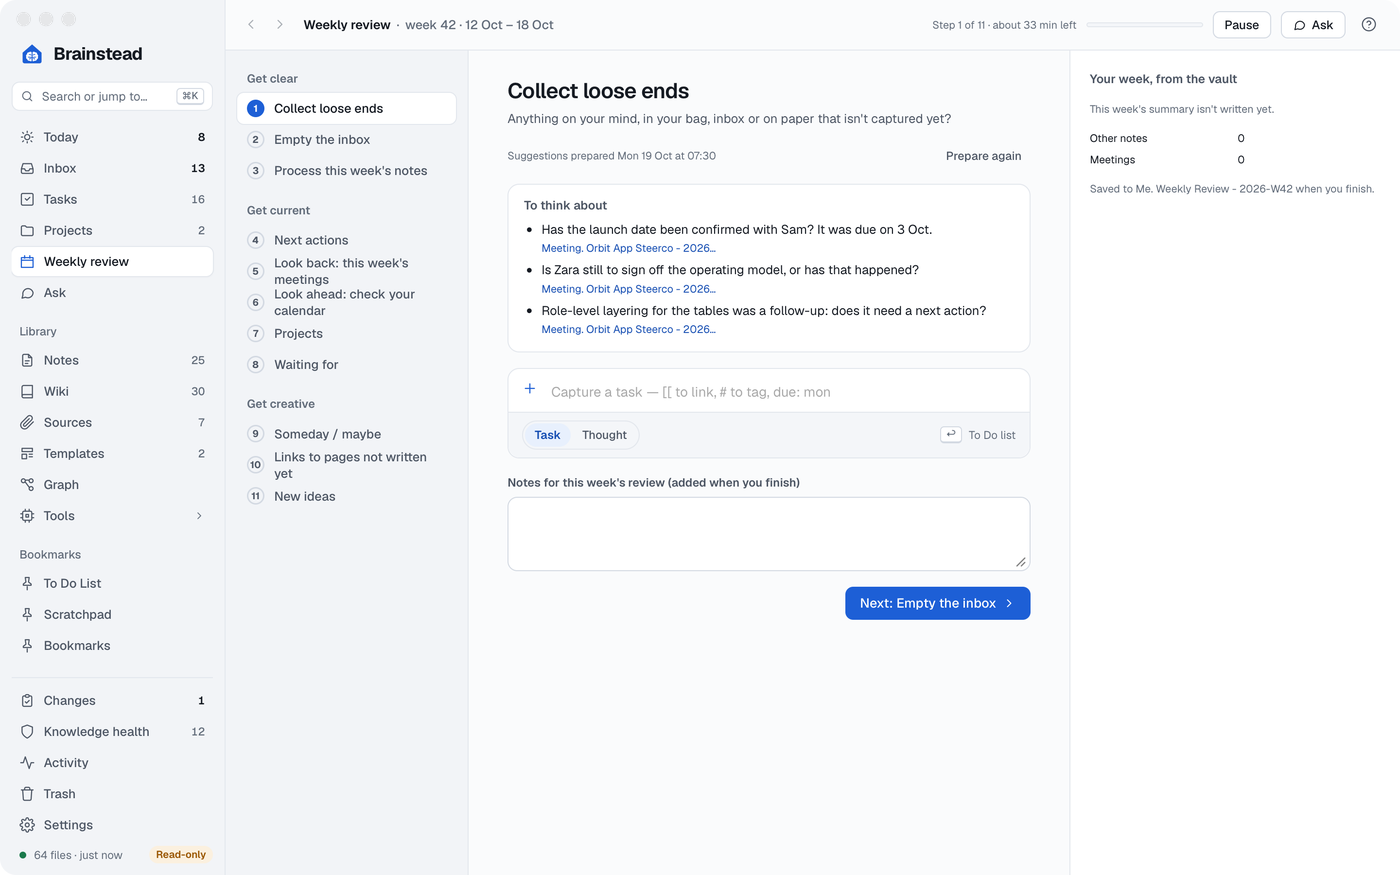
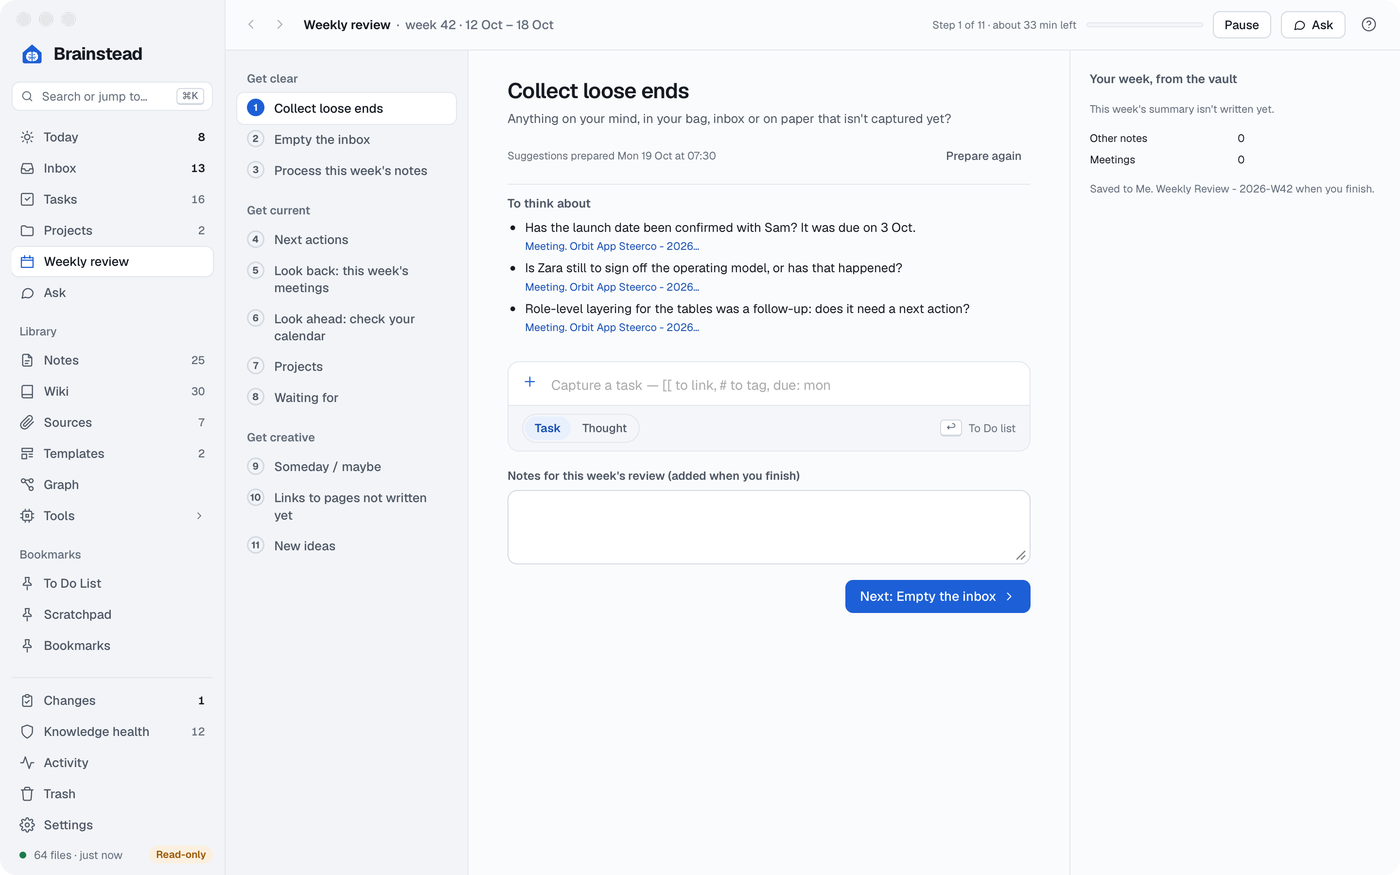
Weekly review in the new look: a long step name wraps under itself instead of over the next step, the step's suggestions are a heading and list with no box, the side pane sits on the page's ground, and the start page lists the eleven steps by phase (done ones struck through)

diff --git a/src/styles.css b/src/styles.css
@@ -6738,22 +6738,25 @@ select.sel {
   color: var(--ink3);
   padding: 16px 10px 6px;
 }
+
+/* A step: its number and name, the name wrapping under itself when it's long. */
 .wst {
   display: flex;
-  align-items: center;
+  align-items: flex-start;
   gap: 10px;
   width: 100%;
-  height: 32px;
-  padding: 0 10px;
+  min-height: 32px;
+  padding: 7px 10px;
   border: 0;
   border-radius: 7px;
   background: none;
-  font: 500 13px var(--sans);
+  font: 500 13px/1.35 var(--sans);
   color: var(--ink2);
   cursor: pointer;
   text-align: left;
 }
 .wst .sd {
+  margin-top: -1px;
   width: 18px;
   height: 18px;
   border-radius: 50%;
@@ -6791,7 +6794,7 @@ select.sel {
 
 /* The weekly review's start page, before step 1. */
 .wstart {
-  max-width: 640px;
+  max-width: 760px;
   padding: 40px 40px 28px;
   display: flex;
   flex-direction: column;
@@ -6805,6 +6808,26 @@ select.sel {
 }
 .wstart .row {
   gap: 8px;
+}
+.wphases {
+  display: grid;
+  grid-template-columns: repeat(3, minmax(0, 1fr));
+  gap: 20px;
+  padding: 14px 0 4px;
+  border-top: 1px solid var(--line);
+}
+.wphases ol {
+  margin: 6px 0 0;
+  padding-left: 20px;
+  display: flex;
+  flex-direction: column;
+  gap: 4px;
+  font-size: 13px;
+  color: var(--ink2);
+}
+.wphases li.done {
+  color: var(--ink3);
+  text-decoration: line-through;
 }
 .wmain .muted {
   margin: 6px 0 0;
@@ -6820,7 +6843,6 @@ select.sel {
 }
 .wside {
   border-left: 1px solid var(--line);
-  background: var(--surface);
   padding: 20px;
   overflow-y: auto;
   display: flex;
@@ -6867,18 +6889,21 @@ select.sel {
 .wprephead.jprog .bar {
   max-width: 200px;
 }
+
+/* The step's suggestions: a heading and its list, no box. */
 .wprep {
-  padding: 4px 0;
+  padding: 0;
+  border-top: 1px solid var(--line);
 }
 .wprep > .eyebrow {
   display: block;
-  padding: 8px 16px 2px;
+  padding: 10px 0 2px;
 }
 .wsugg {
   display: flex;
   align-items: center;
   gap: 8px;
-  padding: 7px 16px;
+  padding: 7px 0;
 }
 .wsugg + .wsugg {
   border-top: 1px solid var(--line);
@@ -6899,7 +6924,7 @@ select.sel {
 }
 .wprompts {
   margin: 0;
-  padding: 4px 16px 10px 34px;
+  padding: 4px 0 10px 18px;
   display: flex;
   flex-direction: column;
   gap: 4px;

diff --git a/src/Weekly.tsx b/src/Weekly.tsx
@@ -482,6 +482,21 @@ function StartPage({
               </>
             )}
           </dl>
+          {/* What it goes through, phase by phase, numbered as the steps are. */}
+          <div className="wphases">
+            {[...new Set(STEPS.map((s) => s.phase))].map((ph) => (
+              <section key={ph}>
+                <h2 className="eyebrow">{ph}</h2>
+                <ol start={STEPS.findIndex((s) => s.phase === ph) + 1}>
+                  {STEPS.filter((s) => s.phase === ph).map((s) => (
+                    <li key={s.id} className={st.done.includes(STEPS.indexOf(s)) ? "done" : ""}>
+                      {s.title}
+                    </li>
+                  ))}
+                </ol>
+              </section>
+            ))}
+          </div>
           <div className="row">
             {paused ? (
               <>

diff --git a/src/weeklyPrep.tsx b/src/weeklyPrep.tsx
@@ -246,7 +246,7 @@ export function PrepRows({
   if (!open.length) return null;
   if (PROMPTS.includes(step))
     return (
-      <div className="card wprep" aria-label="Suggestions">
+      <div className="wprep" aria-label="Suggestions">
         <div className="eyebrow">To think about</div>
         <ul className="wprompts">
           {open.map((s) => (
@@ -258,7 +258,7 @@ export function PrepRows({
       </div>
     );
   return (
-    <div className="card wprep" aria-label="Suggestions">
+    <div className="wprep" aria-label="Suggestions">
       <div className="eyebrow">Suggested{open.length < rows.length ? ` · ${rows.length - open.length} dealt with` : ""}</div>
       {open.map((s) => {
         const c = choice(s, week, projects);
